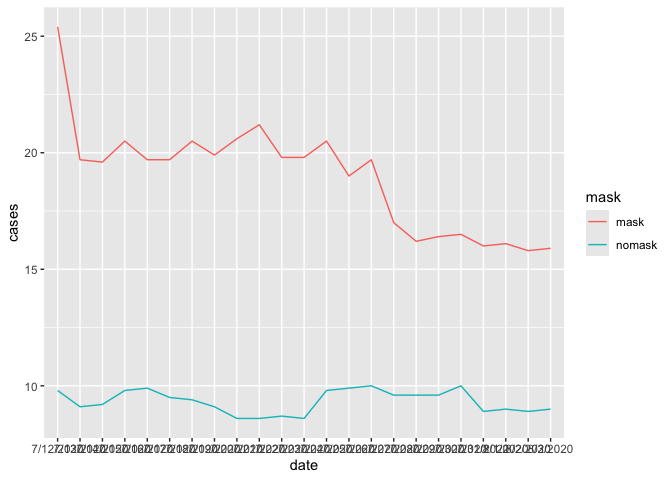
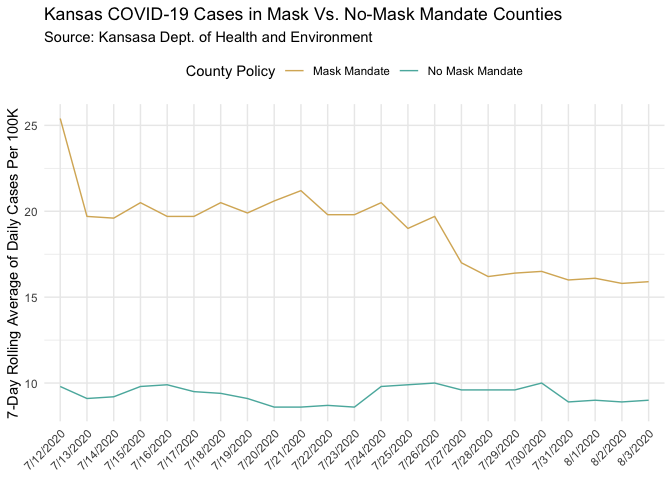
done

diff --git a/lab-07.md b/lab-07.md
@@ -52,7 +52,23 @@ df <- df %>%
     mask:nomask, 
     names_to = "mask", 
     values_to = "cases")
+df
 ```
+
+    ## # A tibble: 46 × 3
+    ##    date      mask   cases
+    ##    <chr>     <chr>  <dbl>
+    ##  1 7/12/2020 mask    25.4
+    ##  2 7/12/2020 nomask   9.8
+    ##  3 7/13/2020 mask    19.7
+    ##  4 7/13/2020 nomask   9.1
+    ##  5 7/14/2020 mask    19.6
+    ##  6 7/14/2020 nomask   9.2
+    ##  7 7/15/2020 mask    20.5
+    ##  8 7/15/2020 nomask   9.8
+    ##  9 7/16/2020 mask    19.7
+    ## 10 7/16/2020 nomask   9.9
+    ## # ℹ 36 more rows
 
 ### Exercise 2
 
@@ -62,7 +78,127 @@ data and conveys a clear message.
 ``` r
 df %>% 
   ggplot(aes(x = date, y = cases, color = mask, group = mask)) +
-  geom_line()
+  geom_line() +
+  labs(title = "Kansas COVID-19 Cases in Mask Vs. No-Mask Mandate Counties", subtitle = "Source: Kansasa Dept. of Health and Environment", y = "7-Day Rolling Average of Daily Cases Per 100K", x = NULL, color = "County Policy") +
+  theme_minimal() +
+  theme(
+    axis.text.x = element_text(angle = 45, hjust = 1),
+  legend.position = "top") +
+  scale_color_manual(
+    values = c("mask" = "#d8b365", "nomask" = "#5ab4ac"),
+    labels = c("mask" = "Mask Mandate", "nomask" = "No Mask Mandate")
+  )
 ```
 
 ![](lab-07_files/figure-gfm/plot-1.png)<!-- -->
+
+### Exercise 3
+
+What message is more clear in your visualization than it was in the
+original visualization?
+
+The original visualization was misleading viewers with two different
+scales for each line to depict that counties with mask mandates were
+experiencing decreases in COVID cases which were bringing their average
+lower than counties with no mask mandate. My visualization uses the same
+scale for each line and shows more clearly that, while counties with
+mask mandates did experience decreases and counties with no mask
+mandates did not, counties with no mask mandates had fewer average COVID
+cases across the range of dates displayed in the graph.
+
+### Exercise 4
+
+What, if any, useful information do these data and your visualization
+tell us about mask wearing and COVID? It’ll be difficult to set aside
+what you already know about mask wearing, but you should try to focus
+only on what this visualization tells. Feel free to also comment on
+whether that lines up with what you know about mask wearing.
+
+This visualization shows that counties with mask mandates showed an
+overall slight decrease in average COVID cases over a 23 day period.
+Over that same period, counties with no mask mandates showed little
+change in average COVID cases, but they consistently had fewer average
+cases than counties with mask mandates. The trend of the cases in the
+mask mandate counties suggest that mask mandates may be effective in
+lowering COVID cases. I’m not sure how to interpret the striking
+difference in absolute COVID cases between mask and no mask counties.
+There may be a third variable that explains the difference in absolute
+cases in mask vs. no mask counties. Perhaps no mask counties are rural
+counties where transmission is low even without masks.
+
+### Exercise 5
+
+Reflect on the message conveyed by your accurate visualization regarding
+mask-wearing and COVID-19. Discuss the key factors that contribute to
+this message, such as the variables used, the scale of the axes, and the
+type of visualization.
+
+I describe the message conveyed by the visualization above. In sum, it
+shows that mask mandates seem to be associated with decreases in COVID
+and that counties with no mask mandates show no change in COVID rates
+but have overall fewer COVID cases. The variables used where the ones I
+was given. They are y = 7-day rolling average of daily COVID cases per
+100K people in Kansas counties, x1 = date, x2 = presence of mask mandate
+policy in county. They seem like adequate variables to capture what’s
+going on. Using the same scale on the y-axis for both lines is crucial
+to capture everything that’s going on in the data (at least what’s
+described above). The line graph is appropriate for showing change over
+time.
+
+### Exercise 6
+
+Plan Your Opposite Visualization: Briefly determine what opposite
+message you want to covey. Consider the data you have available (or
+could easily add).
+
+Instead of plotting change over time, for each date I could plot the
+proportion of the “7-Day Rolling Average of Daily Cases/Per 100K” that
+each type of county contributes. So, instead of depicting the fact that
+COVID cases decreased in counties with mask mandates (suggesting that
+masking is effective at lowering COVID rates), the visualization will
+capitalize on the difference in total of number of cases to focus on the
+fact that most of the COVID cases are happening in counties with
+mask-mandates, ignoring any change in cases over time (now suggesting
+the opposite—that masking is ineffective or even counterproductive to
+lowering COVID rates).
+
+### Exercise 7
+
+Use visualization techniques to craft a chart or graph that conveys this
+contrary perspective. Pay careful attention to how different
+visualization choices, like altering the y-axis scale or changing the
+chart type, can influence the message received by the audience.
+
+``` r
+#Going back to wide before adding new total variable.
+df <- df %>%
+  pivot_wider(names_from = mask, values_from = cases) %>% 
+  mutate(total = rowSums(across(c(mask, nomask))))
+
+#Back to long.
+df <- df %>% 
+  pivot_longer(
+    mask:nomask, 
+    names_to = "mask", 
+    values_to = "cases")
+
+#Creating proportion variable.
+df <- df %>%
+  mutate(proportion = cases / total)
+  
+#Plotting.
+df %>% 
+  ggplot(aes(x = date, y = proportion, fill = mask)) +
+  geom_col() +
+  labs(title = "Proportion of Kansas COVID-19 Cases in Mask Vs. No-Mask Mandate Counties", subtitle = "Source: Kansasa Dept. of Health and Environment", y = "Proportion of 7-Day Rolling Average of Daily Cases Per 100K", x = NULL, fill = "County Policy") +
+  theme_minimal() +
+  theme(
+    axis.text.x = element_text(angle = 45, hjust = 1),
+  legend.position = "top") +
+  scale_fill_manual(
+    values = c("mask" = "#d8b365", "nomask" = "#5ab4ac"),
+    labels = c("mask" = "Mask Mandate", "nomask" = "No Mask Mandate")
+  )
+```
+
+![](lab-07_files/figure-gfm/plot2-1.png)<!-- -->
